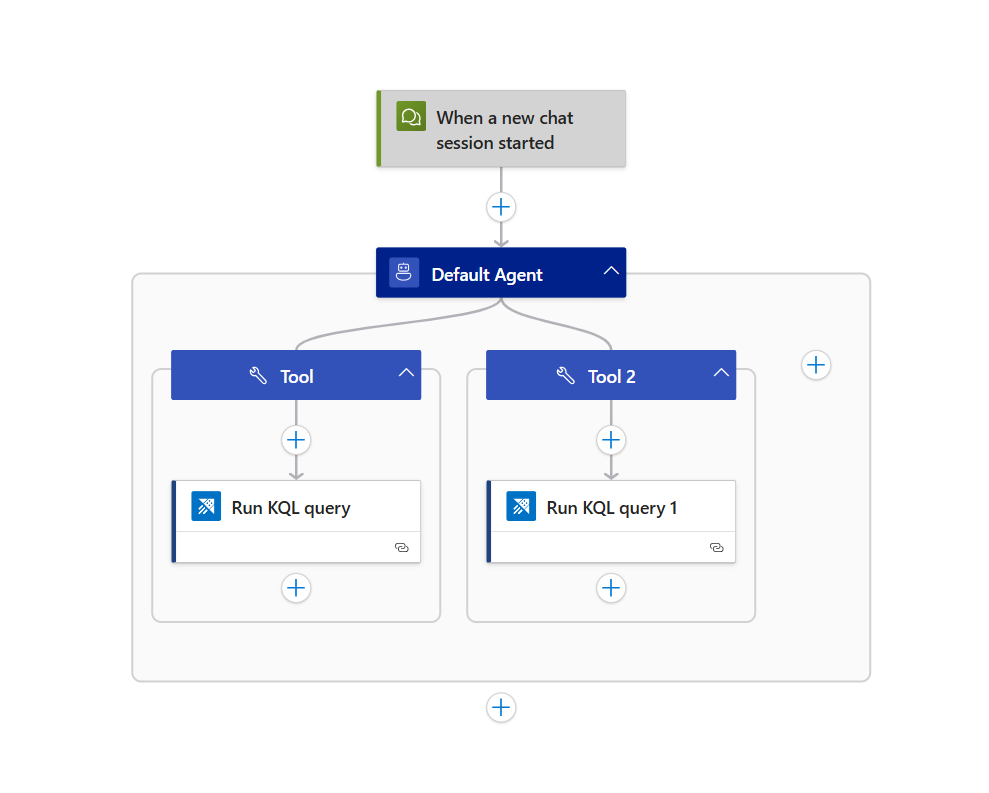
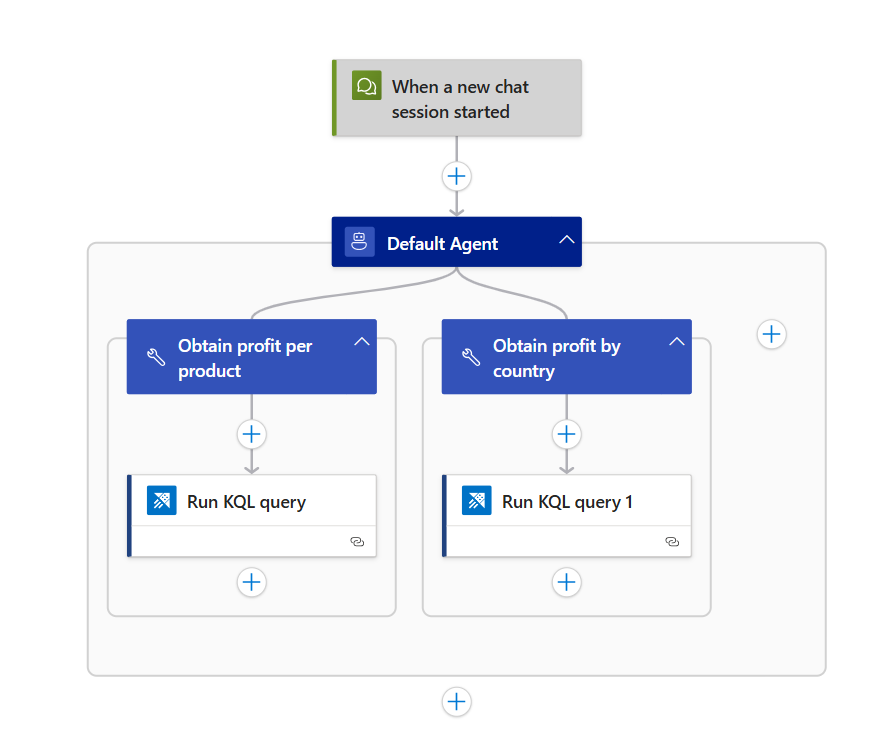
Adding tool names

diff --git a/docs/logicapps-ai-course/04_build_multi_agent_systems/02_nested_agents.md b/docs/logicapps-ai-course/04_build_multi_agent_systems/02_nested_agents.md
@@ -23,13 +23,13 @@ Both Nested Agent and Workflow actions invoke a child workflow from a parent wor
 
 ![Create a workflow for the supervisor agent](./images/02_01_create_supervisor_agent.png "Create workflow for supervisor agent")
 
-2. Similarly, create a workflow for the writer agent. Since this is the child workflow, it must be of kind `Conversational Agents`. 
+2. Similarly, create a workflow for the writer agent. Since this is the child workflow, it must be of kind `Conversational Agents`.
 
-3. Now, let's navigate to the designer view for the `writer_agent` workflow and begin adding the required components.
+3. Now, let's navigate to the designer view for the `writer_agent` workflow and begin adding the required components. For reference, a completed example of the workflow is included below.
 
 ![Designer view for the writer agent](./images/02_02_writer_agent_designer.png "Designer view for the writer agent")
 
-We will first add the appropriate deployment model name and the following system instructions to the default agent. 
+4. We will first add the appropriate deployment model name and the following system instructions to the default agent.
 
 ![System Instructions for the writer agent](./images/02_03_writer_agent_prompt.png "System Instructions for the writer agent")
 
@@ -46,19 +46,21 @@ Responsibilities:
 Important: Write the draft as if it’s ready to submit - no suggestions or placeholders.
 </pre>
 
-Then, we will add two Azure Data Explorer actions, `Run KQL query` as two tools to the agent.
+5. Then, we will add two Azure Data Explorer actions, `Run KQL query` as two tools to the agent.
+
+6. Click on the first tool and rename it `Obtain profit per product`. Include the following description: `Obtain top ten most profitable products`. Also, add the agent parameters `year` and `month`, both of which are of integer type.
 
 ![Tool Details](./images/02_04_tool_details.png "Tool Details")
 
-Click on the first tool and include the following description: `Obtain top ten most profitable products`. Also, add the agent parameters `year` and `month`, both of which are of integer type.
+7. Next, click on the second tool and rename it `Obtain profit by country`. Include the following description: `Obtain profit breakdown by country`. Again, add the agent parameters `year` and `month`, both of which are of integer type.
 
-Next, click on the second tool and include the following description: `Obtain profit breakdown by country`. Again, add the agent parameters `year` and `month`, both of which are of integer type.
+8. Then, click on the `Run KQL query` action and provide credentials to authorize the connection.
 
-Then, click on the `Run KQL query` action and provide credentials to authorize the connection. 
+Once the credentials are provided, add the cluster url, database name and query.
 
 ![Run KQL query action](./images/02_05_kql_query.png "Run KQL query action")
 
-Once the credentials are provided, input the following:
+The cluster url, database name and query are included below for convenience.
 
 Cluster URL: `https://help.kusto.windows.net/`
 
@@ -73,7 +75,7 @@ NewSales
 | take 10
 </pre>
 
-Similarly, click on the `Run KQL query 1` action and input the following:
+9. Similarly, click on the `Run KQL query 1` action and input the following:
 
 Cluster URL: `https://help.kusto.windows.net/`
 
@@ -87,11 +89,11 @@ NewSales
 | order by Profit
 </pre>
 
-4. Let's navigate to the designer view for the `supervisor_agent` workflow and begin adding the required components.
+10. Let's navigate to the designer view for the `supervisor_agent` workflow and begin adding the required components. For reference, a completed example of the workflow is included below.
 
 ![Designer view for the supervisor agent](./images/02_06_supervisor_agent_designer.png "Designer view for the supervisor agent")
 
-First add the appropriate deployment model name and the following system instructions to the default agent.
+11. First add the appropriate deployment model name and the following system instructions to the default agent.
 
 <pre>
 You are the Supervisor Agent overseeing the creation of a sales performance report.
@@ -102,9 +104,9 @@ You are the Supervisor Agent overseeing the creation of a sales performance repo
 4. Repeat this process until the report is polished and ready for submission.
 </pre>
 
-Then, add the `Send a task to a nested agent` as a tool to the agent.
+12. Then, add the `Send a task to a nested agent` as a tool to the agent.
 
-Click on `Tool` and add the following description: `Have the writer agent data gather from enterprise systems and draft a narrative report with business insights and receive the response`. 
+13. Click on the tool and rename it `Writer Agent`. Include the following description: `Have the writer agent data gather from enterprise systems and draft a narrative report with business insights and receive the response`.
 
 Then add the following agent parameters:
 
@@ -115,14 +117,18 @@ Then add the following agent parameters:
 **2. feedback**
 - **Type:** `String`
 
+14. In the Nested Agent Action, input the workflow name and the task message.
+
 ![Nested Agent Action parameters](./images/02_07_nested_agent_action_parameters.png "Nested Agent Action parameters")
 
-In the Nested Agent Action, choose `writer_agent` from the dropdown for Workflow Name and input the following task message: `concat('report period: ', agentParameters('report_period'), ' feedback: ', agentParameters('feedback'))`
+We will choose `writer_agent` from the dropdown for Workflow Name and input the following task message: `concat('report period: ', agentParameters('report_period'), ' feedback: ', agentParameters('feedback'))`.
 
-5. Click on Chat on the upper left hand corner and type in `December 2024`. You should be able to see the initial draft review and the revised draft that the supervisor agent provides. 
+15. Click on Chat on the upper left hand corner and type in `December 2024`.
 
 ![Supervisor Agent Chat](./images/02_08_supervisor_agent_chat.png "Supervisor Agent Chat")
 
-6. Finally, navigate to the run history of the `writer_agent`. You should be able to see that only a single workflow invocation occurs and that context is maintained throughout the conversation.
+You should be able to see the initial draft review and the revised draft that the supervisor agent provides.
+
+16. Finally, navigate to the run history of the `writer_agent`. You should be able to see that only a single workflow invocation occurs and that context is maintained throughout the conversation.
 
 ![Writer Agent log](./images/02_09_writer_agent_log.png "Writer Agent log")
